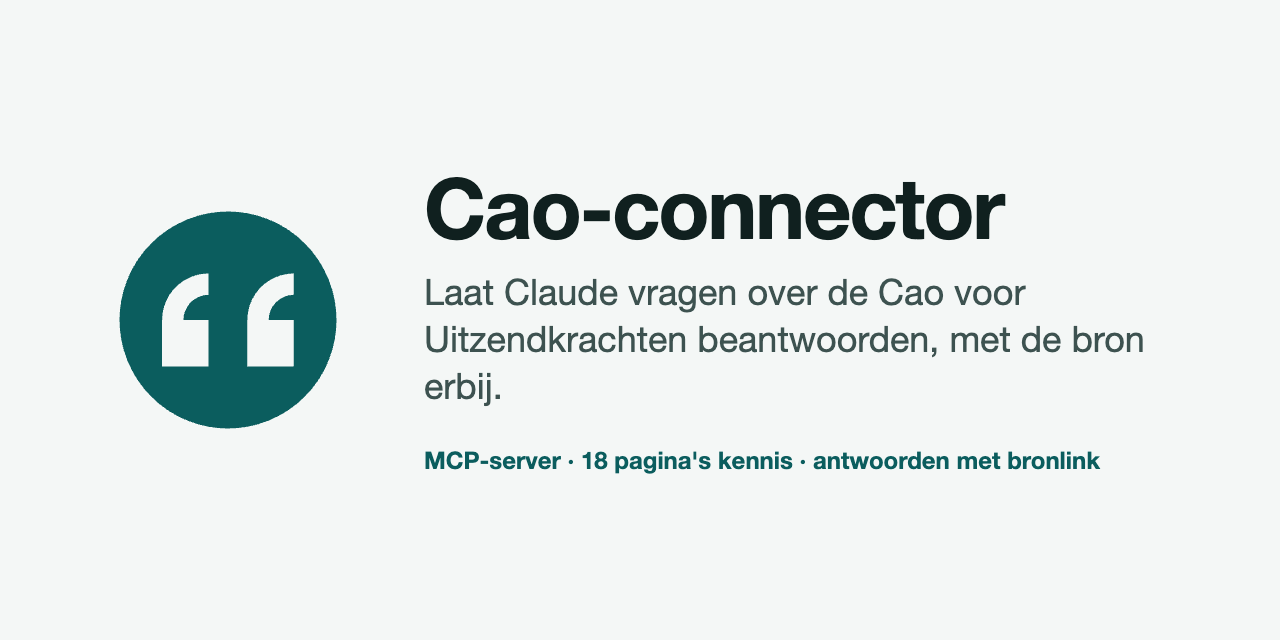
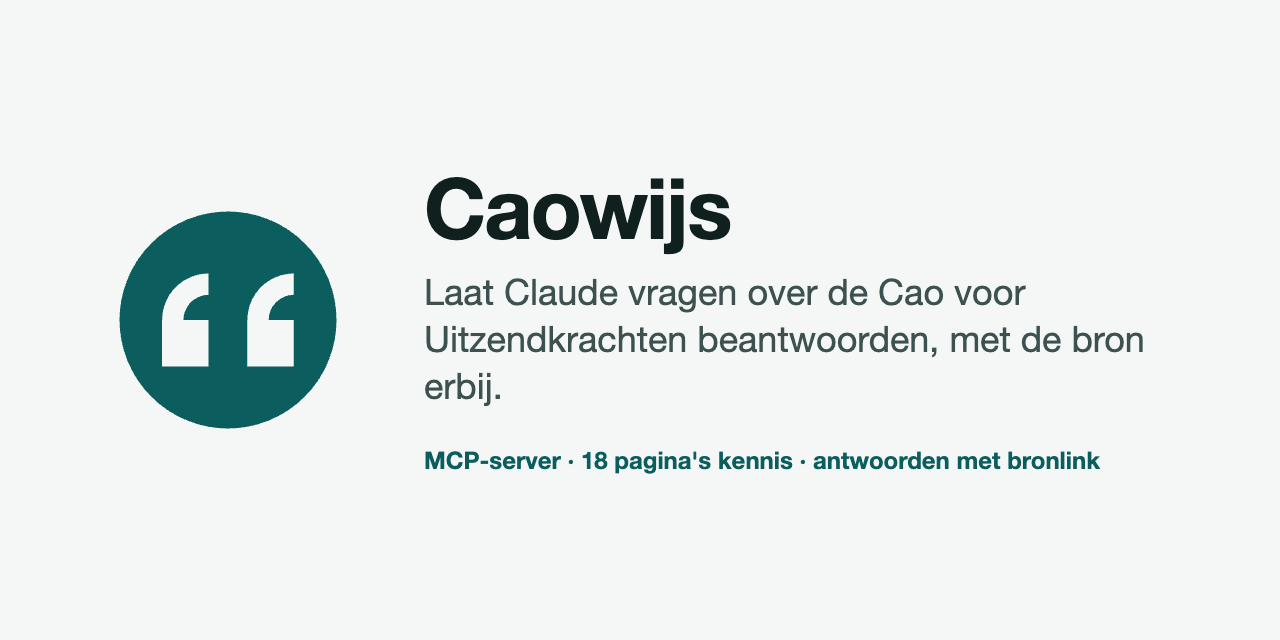
Hernoemd naar Caowijs

Changed region(s): [[0.4375, 0.2812, 0.7812, 0.4062]]

diff --git a/assets/bron/demo.html b/assets/bron/demo.html
@@ -1,7 +1,7 @@
 <!doctype html>
 <html lang="nl">
 <meta charset="utf-8">
-<title>Cao-connector: een vraag aan Claude</title>
+<title>Caowijs: een vraag aan Claude</title>
 <style>
   html, body { margin: 0; }
   body { width: 1200px; background: #f4f7f6; color: #10201f; padding: 44px 56px 40px; box-sizing: border-box; font-family: -apple-system, "Helvetica Neue", Arial, sans-serif; font-size: 22px; line-height: 1.5; }
@@ -18,7 +18,7 @@
   .bij { margin: 18px 4px 0; font-size: 17px; color: #5b6f6d; }
 </style>
 <div class="vraag">Hoeveel wachtdagen mag ik inhouden als een uitzendkracht ziek wordt tijdens een opdracht?</div>
-<div class="tool"><img src="../logo.svg" alt="">cao-connector · zoek</div>
+<div class="tool"><img src="../logo.svg" alt="">caowijs · zoek</div>
 <div class="antwoord">
   <p><strong>Je mag maximaal twee wachtdagen inhouden, en tijdens een lopende opdracht volg je het aantal van de opdrachtgever.</strong></p>
   <ul>

diff --git a/assets/bron/social.html b/assets/bron/social.html
@@ -1,7 +1,7 @@
 <!doctype html>
 <html lang="nl">
 <meta charset="utf-8">
-<title>Cao-connector</title>
+<title>Caowijs</title>
 <style>
   html, body { margin: 0; }
   body { width: 1280px; height: 640px; background: #f4f7f6; color: #10201f; display: flex; align-items: center; gap: 72px; padding: 0 104px; box-sizing: border-box; font-family: -apple-system, "Helvetica Neue", Arial, sans-serif; }
@@ -12,7 +12,7 @@
 </style>
 <img src="../logo.svg" alt="">
 <div>
-  <h1>Cao-connector</h1>
+  <h1>Caowijs</h1>
   <p>Laat Claude vragen over de Cao voor Uitzendkrachten beantwoorden, met de bron erbij.</p>
   <small>MCP-server · 18 pagina's kennis · antwoorden met bronlink</small>
 </div>

diff --git a/src/start.ts b/src/start.ts
@@ -7,10 +7,10 @@ import { maakServer } from "./server.ts";
 try {
   const paginas = laadKennisbank(join(import.meta.dirname, "..", "kennis"));
   await maakServer(paginas).connect(new StdioServerTransport());
-  console.error(`cao-connector: ${paginas.length} pagina's geladen`);
+  console.error(`caowijs: ${paginas.length} pagina's geladen`);
 } catch (fout) {
   console.error(
-    `cao-connector kan niet starten: ${fout instanceof Error ? fout.message : fout}`,
+    `caowijs kan niet starten: ${fout instanceof Error ? fout.message : fout}`,
   );
   process.exit(1);
 }

diff --git a/src/server.ts b/src/server.ts
@@ -31,7 +31,7 @@ export function maakServer(paginas: Pagina[]): McpServer {
   const alleenLezen = { readOnlyHint: true, openWorldHint: false };
 
   const server = new McpServer(
-    { name: "cao-connector", version: "0.1.0" },
+    { name: "caowijs", version: "0.1.0" },
     { instructions: INSTRUCTIES },
   );
 

diff --git a/docs/plannen/2026-10-04-caowijs.md b/docs/plannen/2026-10-04-caowijs.md
@@ -1,4 +1,4 @@
-# Cao-connector: implementatieplan
+# Caowijs: implementatieplan
 
 > **For agentic workers:** REQUIRED SUB-SKILL: Use superpowers:subagent-driven-development (recommended) or superpowers:executing-plans to implement this plan task-by-task. Steps use checkbox (`- [ ]`) syntax for tracking.
 
@@ -8,7 +8,7 @@
 
 **Tech Stack:** TypeScript op Node 22.18+ (Node voert `.ts` zelf uit, geen bouwstap), `@modelcontextprotocol/sdk` ^1.32, `zod` ^4, Vitest ^3, Prettier.
 
-**Spec:** `docs/ontwerpen/2026-10-04-cao-connector.md`
+**Spec:** `docs/ontwerpen/2026-10-04-caowijs.md`
 
 ## Global Constraints
 
@@ -90,7 +90,7 @@ evals/vragen.json
 
 ```json
 {
-  "name": "cao-connector",
+  "name": "caowijs",
   "version": "0.1.0",
   "description": "MCP-server die een kennisbank over de Cao voor Uitzendkrachten doorzoekbaar maakt voor Claude, met de bron bij elk antwoord.",
   "type": "module",
@@ -1295,7 +1295,7 @@ export function maakServer(paginas: Pagina[]): McpServer {
   const onbekend = (naam: string) => fout(`Onbekend onderwerp "${naam}". Geldige namen: ${namen}.`);
   const alleenLezen = { readOnlyHint: true, openWorldHint: false };
 
-  const server = new McpServer({ name: "cao-connector", version: "0.1.0" }, { instructions: INSTRUCTIES });
+  const server = new McpServer({ name: "caowijs", version: "0.1.0" }, { instructions: INSTRUCTIES });
 
   server.registerTool(
     "onderwerpen",
@@ -1382,9 +1382,9 @@ import { maakServer } from "./server.ts";
 try {
   const paginas = laadKennisbank(join(import.meta.dirname, "..", "kennis"));
   await maakServer(paginas).connect(new StdioServerTransport());
-  console.error(`cao-connector: ${paginas.length} pagina's geladen`);
+  console.error(`caowijs: ${paginas.length} pagina's geladen`);
 } catch (fout) {
-  console.error(`cao-connector kan niet starten: ${fout instanceof Error ? fout.message : fout}`);
+  console.error(`caowijs kan niet starten: ${fout instanceof Error ? fout.message : fout}`);
   process.exit(1);
 }
 ```
@@ -1417,10 +1417,10 @@ Deze taak doet de hoofdagent zelf.
 cd .
 CONFIG="$(mktemp -d)/cao-mcp.json"
 cat > "$CONFIG" <<EOF
-{ "mcpServers": { "cao": { "command": "node", "args": ["$PWD/src/start.ts"] } } }
+{ "mcpServers": { "caowijs": { "command": "node", "args": ["$PWD/src/start.ts"] } } }
 EOF
 claude -p "Hoeveel wachtdagen mag ik inhouden als een uitzendkracht ziek wordt tijdens een opdracht?" \
-  --mcp-config "$CONFIG" --strict-mcp-config --allowedTools "mcp__cao__onderwerpen,mcp__cao__zoek,mcp__cao__lees_onderwerp"
+  --mcp-config "$CONFIG" --strict-mcp-config --allowedTools "mcp__caowijs__onderwerpen,mcp__caowijs__zoek,mcp__caowijs__lees_onderwerp"
 ```
 
 Herhaal met "Wanneer moet een uitzendbureau de waarborgsom voor de Wtta storten?" en "Hoe hoog is de PAWW-bijdrage in 2026 en wie betaalt die?".
@@ -1432,12 +1432,12 @@ Per antwoord: noemt het een bron met een werkende link, klopt het feit met de pa
 - [ ] **Step 3: Leg de drie vragen en antwoorden vast in `docs/proefvragen.md`, en koppel de connector voor Tim**
 
 ```bash
-claude mcp add --scope user cao -- node ./src/start.ts
+claude mcp add --scope user caowijs -- node ./src/start.ts
 claude mcp list
 git add docs/proefvragen.md && git commit -m "Proefvragen met de connector gekoppeld aan Claude"
 ```
 
-Expected: `claude mcp list` toont `cao` als verbonden.
+Expected: `claude mcp list` toont `caowijs` als verbonden.
 
 ---
 
@@ -1493,18 +1493,18 @@ Draai `npm run meet` en vul de twee scores in op de plekken `<…>`. Kies de voo
 <p align="center">
   <picture>
     <source media="(prefers-color-scheme: dark)" srcset="assets/logo-donker.svg">
-    <img src="assets/logo.svg" alt="Cao-connector" width="120">
+    <img src="assets/logo.svg" alt="Caowijs" width="120">
   </picture>
 </p>
 
-<h1 align="center">Cao-connector</h1>
+<h1 align="center">Caowijs</h1>
 
 <p align="center">
   Laat Claude vragen over de Cao voor Uitzendkrachten beantwoorden, met de bron erbij.
 </p>
 
 <p align="center">
-  <a href="https://github.com/t1mvdploeg/cao-connector/actions/workflows/test.yml"><img src="https://github.com/t1mvdploeg/cao-connector/actions/workflows/test.yml/badge.svg" alt="tests"></a>
+  <a href="https://github.com/t1mvdploeg/caowijs/actions/workflows/test.yml"><img src="https://github.com/t1mvdploeg/caowijs/actions/workflows/test.yml/badge.svg" alt="tests"></a>
   <img src="https://img.shields.io/badge/node-%E2%89%A5%2022.18-339933" alt="Node 22.18 of hoger">
   <img src="https://img.shields.io/badge/licentie-MIT-blue" alt="MIT-licentie">
 </p>
@@ -1520,8 +1520,8 @@ Het is een MCP-server: een klein programma op je eigen computer waarmee Claude z
 Je hebt Node 22.18 of hoger nodig.
 
 ```bash
-git clone https://github.com/t1mvdploeg/cao-connector.git
-cd cao-connector && npm install
+git clone https://github.com/t1mvdploeg/caowijs.git
+cd caowijs && npm install
 claude mcp add cao -- node "$PWD/src/start.ts"
 ```
 
@@ -1605,7 +1605,7 @@ De code valt onder de [MIT-licentie](LICENSE). De kennispagina's zijn samenvatti
 
 - [ ] **Step 5: Demo-beeld en afbeelding voor de linkvoorvertoning**
 
-Maak `assets/bron/demo.html`: één pagina van 1200 pixel breed die de voorbeeldvraag en het antwoord uit `docs/proefvragen.md` toont als een gesprek (de vraag, de regel "zoek in cao-connector", het antwoord met bronlinks), in dezelfde kleuren als het logo. Maak `assets/bron/social.html`: 1280 bij 640 pixel met het logo, de naam "Cao-connector" en de zin "Laat Claude vragen over de Cao voor Uitzendkrachten beantwoorden, met de bron erbij." Geen externe lettertypen of scripts.
+Maak `assets/bron/demo.html`: één pagina van 1200 pixel breed die de voorbeeldvraag en het antwoord uit `docs/proefvragen.md` toont als een gesprek (de vraag, de regel "zoek in caowijs", het antwoord met bronlinks), in dezelfde kleuren als het logo. Maak `assets/bron/social.html`: 1280 bij 640 pixel met het logo, de naam "Caowijs" en de zin "Laat Claude vragen over de Cao voor Uitzendkrachten beantwoorden, met de bron erbij." Geen externe lettertypen of scripts.
 
 ```bash
 CHROME="/Applications/Google Chrome.app/Contents/MacOS/Google Chrome"
@@ -1617,7 +1617,7 @@ Bekijk beide afbeeldingen. Pas de hoogte van het venster aan tot het gesprek er 
 
 - [ ] **Step 6: Schoon het ontwerp en het plan op**
 
-Deze twee documenten gaan mee in de repo en bevatten paden van Tims computer. Vervang in `docs/ontwerpen/2026-10-04-cao-connector.md` en `docs/plannen/2026-10-04-cao-connector.md`:
+Deze twee documenten gaan mee in de repo en bevatten paden van Tims computer. Vervang in `docs/ontwerpen/2026-10-04-caowijs.md` en `docs/plannen/2026-10-04-caowijs.md`:
 
 - het pad van de repo-map door `.`
 - het pad van de map met privémateriaal door `<privémap>`

diff --git a/README.md b/README.md
@@ -1,18 +1,18 @@
 <p align="center">
   <picture>
     <source media="(prefers-color-scheme: dark)" srcset="assets/logo-donker.svg">
-    <img src="assets/logo.svg" alt="Cao-connector" width="120">
+    <img src="assets/logo.svg" alt="Caowijs" width="120">
   </picture>
 </p>
 
-<h1 align="center">Cao-connector</h1>
+<h1 align="center">Caowijs</h1>
 
 <p align="center">
   Laat Claude vragen over de Cao voor Uitzendkrachten beantwoorden, met de bron erbij.
 </p>
 
 <p align="center">
-  <a href="https://github.com/t1mvdploeg/cao-connector/actions/workflows/test.yml"><img src="https://github.com/t1mvdploeg/cao-connector/actions/workflows/test.yml/badge.svg" alt="tests"></a>
+  <a href="https://github.com/t1mvdploeg/caowijs/actions/workflows/test.yml"><img src="https://github.com/t1mvdploeg/caowijs/actions/workflows/test.yml/badge.svg" alt="tests"></a>
   <img src="https://img.shields.io/badge/node-%E2%89%A5%2022.18-339933" alt="Node 22.18 of hoger">
   <img src="https://img.shields.io/badge/licentie-MIT-blue" alt="MIT-licentie">
 </p>
@@ -28,9 +28,9 @@ Het is een MCP-server: een klein programma op je eigen computer waarmee Claude z
 Je hebt Node 22.18 of hoger nodig.
 
 ```bash
-git clone https://github.com/t1mvdploeg/cao-connector.git
-cd cao-connector && npm install
-claude mcp add cao -- node "$PWD/src/start.ts"
+git clone https://github.com/t1mvdploeg/caowijs.git
+cd caowijs && npm install
+claude mcp add caowijs -- node "$PWD/src/start.ts"
 ```
 
 Stel daarna in Claude Code een vraag over de cao. In de Claude-app voeg je dezelfde server toe in het bestand met MCP-servers, met het volledige pad naar `src/start.ts`.

diff --git a/docs/ontwerpen/2026-10-04-caowijs.md b/docs/ontwerpen/2026-10-04-caowijs.md
@@ -1,4 +1,4 @@
-# Ontwerp: Cao-connector
+# Ontwerp: Caowijs
 
 Datum: 2026-10-04. Status: ontwerp in gesprek goedgekeurd door Tim; deze spec wacht op zijn review.
 
@@ -70,7 +70,7 @@ Naar `<privémap>/` verhuizen:
 - `kennis/` als werkkopie, met alle 20 pagina's
 - `ontwerp/` (de documenten uit september) en `skill/`
 
-In `Projecten/Openbaar/Cao-connector/` staat daarna:
+In `Projecten/Openbaar/Caowijs/` staat daarna:
 
 ```
 README.md  LICENSE  package.json  tsconfig.json
@@ -123,4 +123,4 @@ Online hosting, zoeken op betekenis, automatisch opnieuw scrapen, de ruwe bronne
 ## Apart te vragen aan Tim
 
 - Een repo op GitHub aanmaken en pushen.
-- De naam van de repo. Voorstel: `cao-connector`.
+- De naam van de repo. Voorstel: `caowijs`.

diff --git a/docs/proefvragen.md b/docs/proefvragen.md
@@ -1,6 +1,6 @@
 # Proefvragen
 
-Drie echte vragen, op 4 oktober 2026 gesteld aan Claude (model Sonnet) met alleen de Cao-connector gekoppeld. De antwoorden staan hier onbewerkt.
+Drie echte vragen, op 4 oktober 2026 gesteld aan Claude (model Sonnet) met alleen Caowijs gekoppeld. De antwoorden staan hier onbewerkt.
 
 Waar op is gelet: noemt het antwoord een bron met een werkende link, klopt het feit met de pagina in `kennis/`, en benoemt het een open vraag als open vraag. Bij alle drie was dat het geval. Bij de tweede vraag spreken de bronnen elkaar tegen, en het antwoord zegt dat ook.
 
